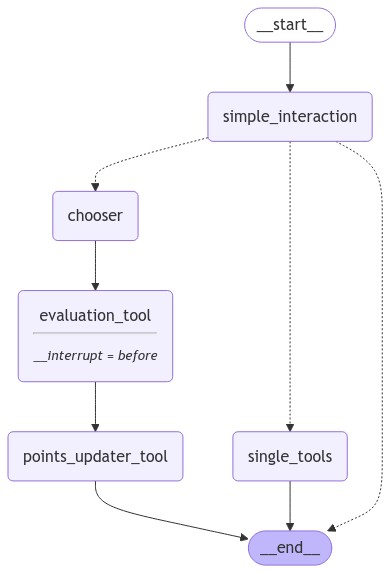
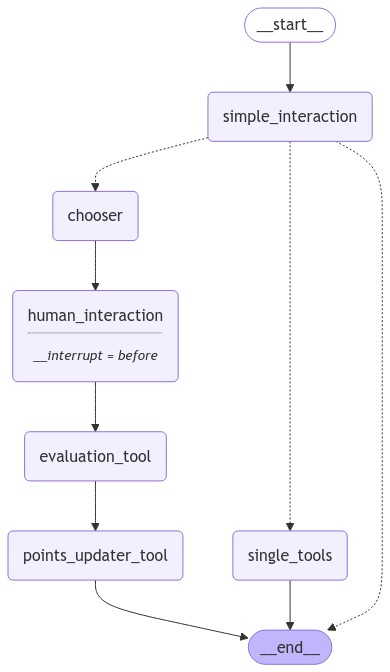
agregar nodo de human_interaction para mayor claridad

diff --git a/app/tests/graph.py b/app/tests/graph.py
@@ -2,7 +2,7 @@ import app.tests.utils as utils
 from app.tests.state import State
 from app.tests.nodes import single_tools_node, single_tools_tool_node, \
                             chooser_tool_node, evaluation_tool_node,\
-                            points_updater_tool_node
+                            points_updater_tool_node, human_interaction
 
 import uuid
 from typing import Literal
@@ -43,6 +43,7 @@ workflow.add_node("simple_interaction", single_tools_node)
 workflow.add_node("single_tools", single_tools_tool_node)
 workflow.add_node("chooser", chooser_tool_node)
 # workflow.add_node("evaluation", evaluation_node)
+workflow.add_node("human_interaction", human_interaction)
 workflow.add_node("evaluation_tool", evaluation_tool_node)
 workflow.add_node("points_updater_tool", points_updater_tool_node)
 
@@ -54,7 +55,8 @@ workflow.add_conditional_edges(
 )
 
 workflow.add_edge("single_tools", END)
-workflow.add_edge("chooser", "evaluation_tool")
+workflow.add_edge("chooser", "human_interaction")
+workflow.add_edge("human_interaction", "evaluation_tool")
 workflow.add_edge("evaluation_tool", "points_updater_tool")
 workflow.add_edge("points_updater_tool", END)
 
@@ -62,7 +64,7 @@ workflow.add_edge("points_updater_tool", END)
 checkpointer = MemorySaver()
 graph = workflow.compile(
     checkpointer=checkpointer,
-    interrupt_before=["evaluation_tool"],
+    interrupt_before=["human_interaction"],
 )
 
 # generate a graph image

diff --git a/app/tests/nodes.py b/app/tests/nodes.py
@@ -29,6 +29,9 @@ def single_tools_tool_node(state):
     
     return {"messages": [user_message]}
 
+def human_interaction(state):
+    pass
+
 def evaluation_tool_node(state):
     """
     Evaluates the user's response.
